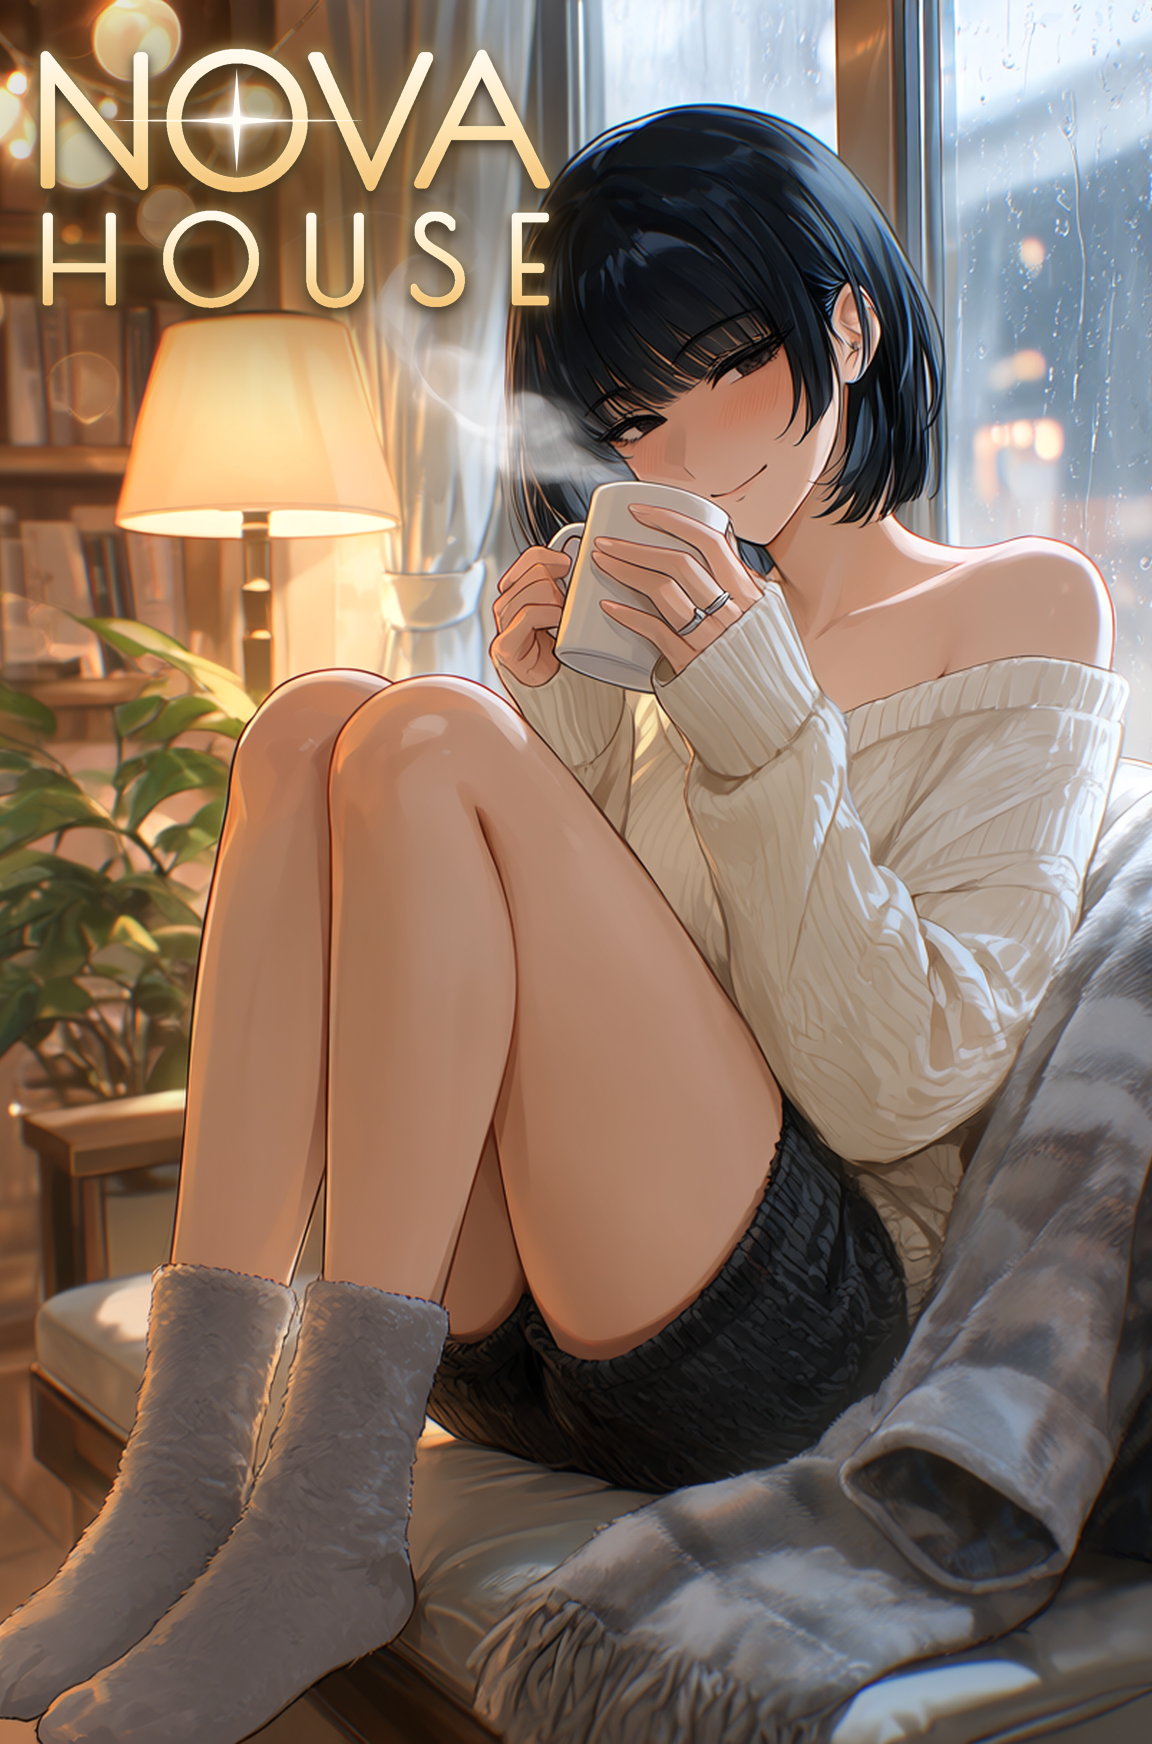
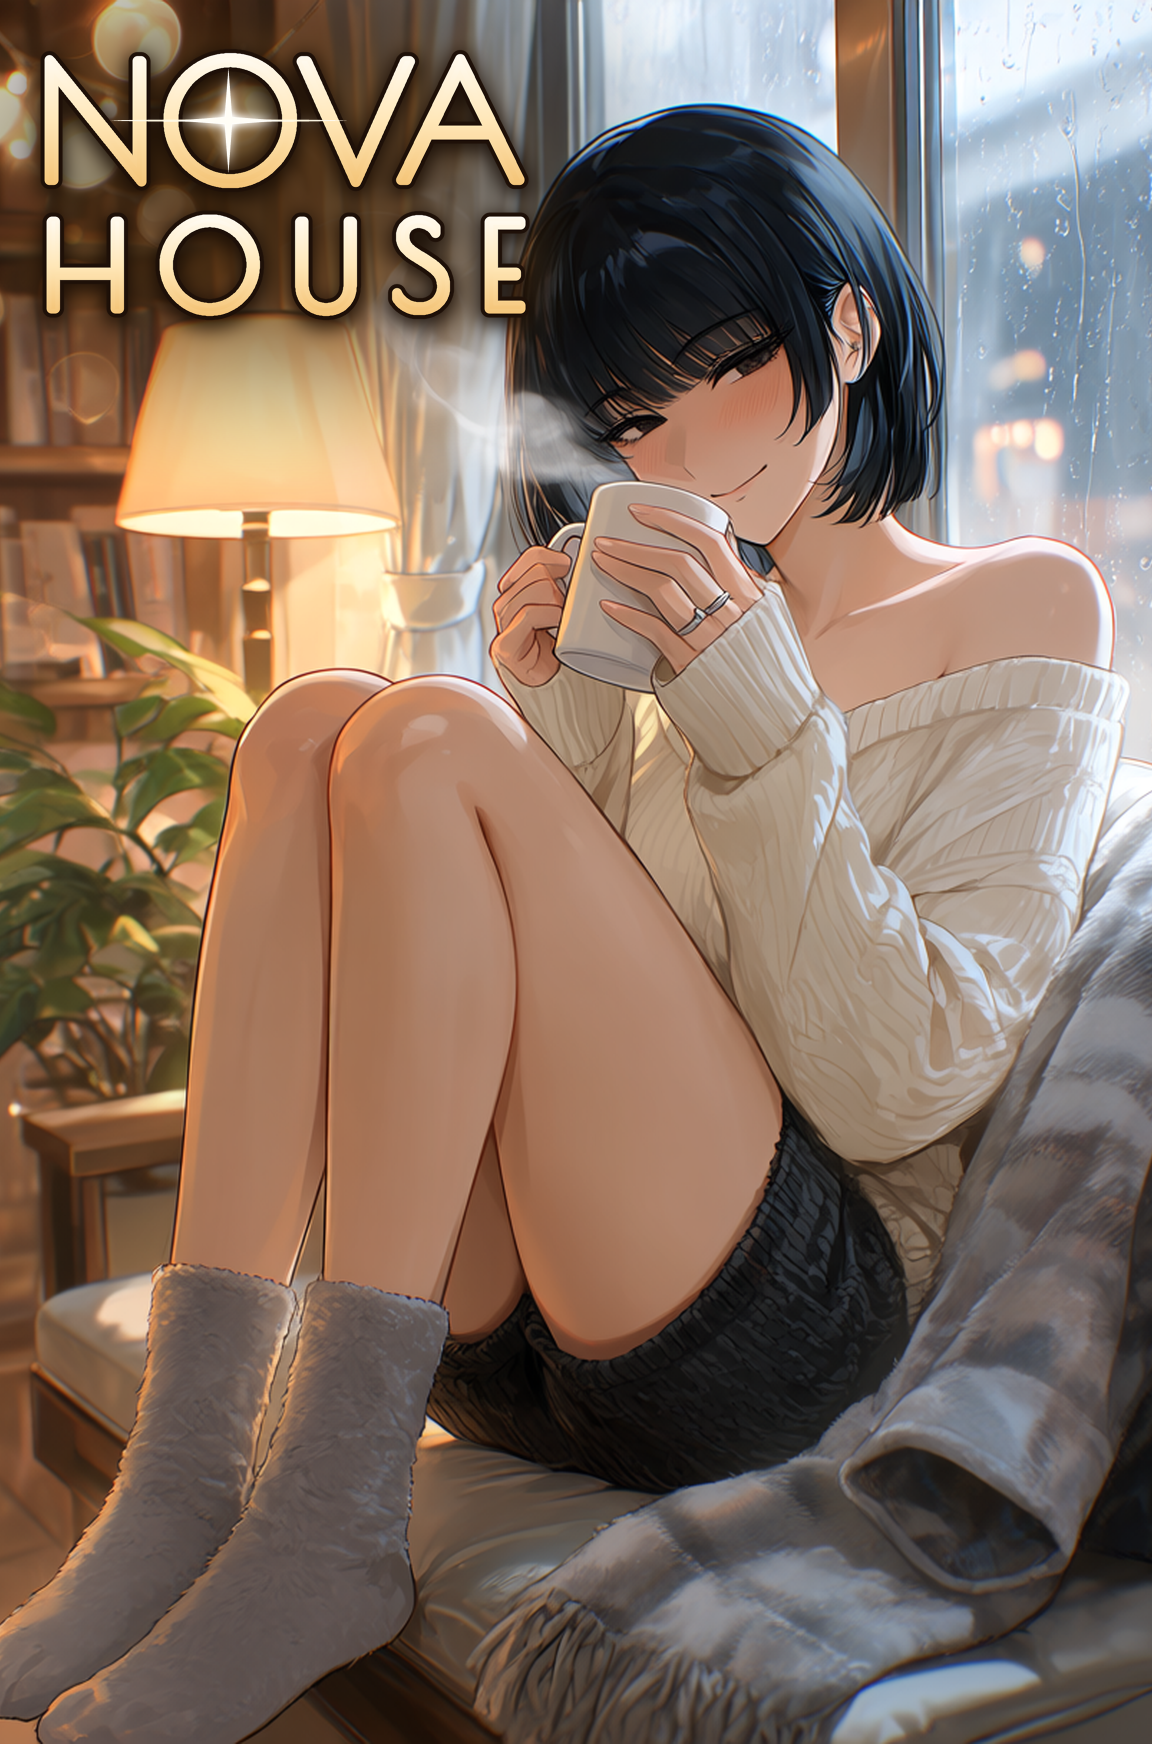
Cover titles v4: bigger small words and more contrast on four weak covers
Nova House: dark-brown keyline round the Poiret One letters, darker warm
spot, softer screen glow, HOUSE up to about 0.7x NOVA's cap. Thin Walls:
THIN at WALLS' 142 px cap in weight 400 with a dark keyline, hairline wall
moved back between the words. Zombie: who said in Caveat 118 (was 64) with
dark stroke, white outer line and pink drop shadow; THE 90 (was 70); Please
100. Three Skills: A MORNING 50 px (was 34), right-aligned to SKILLS, pixel
sun scaled to match. ALLOCATION zones and notes updated; checker passes.

Changed region(s): [[0.0, 0.0, 0.5312, 0.2477]]

diff --git a/docs/stories-50/cover-style-v3/titles/ALLOCATION.md b/docs/stories-50/cover-style-v3/titles/ALLOCATION.md
@@ -57,7 +57,7 @@ eyeballed, so keep a margin and run `--debug` on each render.
 | 14 | story_level_one_wyvern_slayer | Level One, Wyvern Slayer | thumbnail-pop | High-fantasy adventure comedy; underdog bravado | Cinzel Decorative | Exo 2 | BT | gold game logo + banner (sample) | .08-.92,.72-.97 | .35-.69,.06-.29 | Sample, kept as approved: gold bevelled game logo, hero "WYVERN SLAYER" in Cinzel Decorative, with a red "LEVEL ONE" banner in Exo 2. |
 | 15 | story_married_to_the_shrine_fox | Married to the Shrine Fox | gilded-over-the-shoulder | Yokai romcom; teasing, imperious, warm | Shojumaru | Cormorant | LR | vermilion lacquer + gold | .38-.96,.76-.96 | .45-.60,.06-.18 | Reworked from the sample so every line reads left to right, nothing turned on its side: "Married to the" in Cormorant italic 600 warm ivory, then hero "SHRINE FOX" in Shojumaru, torii-vermilion #d8432a lacquer fill with an ivory inline and a gold outer stroke, right-aligned over the floor and kimono hem, with small gold fox-fire sparkles. Vermilion and gold on emerald. |
 | 16 | story_noodles_or_blood | Noodles or Blood | hot-pink-poster | Martial-arts dorm comedy; scrappy, hungry | Potta One | Protest Revolution | DG | noren banner + drips | .10-.83,.68-.98 | .32-.58,.04-.22 | A ramen-shop noren tilted -6 deg across the black trousers: crimson cloth with soft fold shading and a woven brush texture, a darker top hem on a wooden rod, and two slits cut up from the hem so it hangs as three panels. Hero "NOODLES" in fat Potta One cream with a brown stroke, a small "or", and "BLOOD" in Protest Revolution dry brush, also cream with a near-black stroke so the two words balance, with glossy red drips running from its letters down the cloth. Crimson, cream and red on pink. |
-| 17 | story_nova_house | Nova House | cosy-lamp-bokeh | Mind-reading house mystery; cosy on top, menace underneath | Poiret One | none | UL | lamp glow | .03-.48,.02-.18 | .50-.74,.08-.27 | Corner logo in the dark bookcase corner above the lamp: hero "NOVA" in Poiret One across x .03-.47, thickened with a 5 px same-colour stroke, warm white-gold with a screen-blend lamp glow and a four-point nova sparkle on the O; "HOUSE" under it at about 0.6x NOVA's cap, tracked to the same width. A dark warm spot (#1a120a, 0.6) behind it keeps the hairline face off the bokeh. Amber and cream. |
+| 17 | story_nova_house | Nova House | cosy-lamp-bokeh | Mind-reading house mystery; cosy on top, menace underneath | Poiret One | none | UL | lamp glow | .03-.47,.02-.19 | .50-.74,.08-.27 | Corner logo in the dark bookcase corner above the lamp: hero "NOVA" in Poiret One across x .03-.47, thickened with a 5 px same-colour stroke and edged with a 4 px dark-brown keyline (#1e1008) so the hairline face holds against the bright window, warm white-gold with a soft screen-blend lamp glow and a four-point nova sparkle on the O; "HOUSE" under it at about 0.7x NOVA's cap with the same stroke and keyline, tracked to the same width. A dark warm spot (#140c05, 0.78) behind it keeps the letters off the bokeh. Amber and cream. |
 | 18 | story_one_miracle_a_day | One Miracle a Day | starlit-night | Minor-god tournament fantasy; hopeful, sweet | Pinyon Script | Marcellus | CG | holy gold glow + starburst | .10-.90,.63-.85 | .43-.53,.11-.18 | Centred in the galaxy gap under the floating goddess: "ONE" and "A DAY" in tracked Marcellus silver; hero "Miracle" in Pinyon Script with gold metal fill, a 3 px white inner stroke to hold the hairlines and a soft gold halo, a starburst sparkle on the i. Gold on cobalt cosmos. |
 | 19 | story_one_week_she_said | One Week, She Said | cosy-lamp-bokeh | Second-chance romance, slice of life; rainy, tender | Nanum Pen Script | none | LR | sticky note | .50-.96,.74-.96 | .40-.62,.05-.29 | A pale-yellow sticky note with a curled corner and soft shadow, tilted +4 deg over the couch and socks: hero "One week," big and "she said." smaller in Nanum Pen Script blue-ballpoint ink, with seven tally marks and the last one circled. Pastel note on cream sweater and rain-grey. |
 | 20 | story_one_year_bride | One-Year Bride | gilded-over-the-shoulder | Contract-marriage romcom; poised, rule-bound | Alex Brush | Italiana | LL | contract signature + wax seal | .04-.90,.70-.91 | .50-.68,.05-.22 | No card: the contract, signed. Over a dark warm spot on the gold floor at lower left, rising -4 deg: "ONE-YEAR" typed in tracked Italiana ivory, then a dotted "x ...." signature line running 86% of the cover wide, with hero "Bride" signed across it in huge gold Alex Brush (690 px wide, dark keyline, warm glow) and a gold curled flourish under it, ending in a red wax seal with a B. Gold and ivory over the emerald dress. |
@@ -83,11 +83,11 @@ eyeballed, so keep a margin and run `--debug` on each render.
 | 40 | story_the_ranking_board | The Ranking Board | thumbnail-pop | Fighting-college action; bruising, competitive | Barlow Condensed | none | LL | smoked-glass leaderboard | .02-.55,.62-.98 | .42-.65,.05-.24 | The glass ranking wall in the yellow burst under her fist, lower left: a smoked-glass panel with a white top rule, "THE" in red, hero "RANKING" and "BOARD" in Barlow Condensed italic 800 white (cap about 95 px), and three leaderboard rows (86, 87, 88) with 87 on a red bar. Smoked black glass and red on yellow. |
 | 41 | story_the_villain_dies_in_chapter_three | The Villain Dies in Chapter Three | holy-high-key | Transmigration academy comedy; doomed, smug | UnifrakturMaguntia | Shippori Mincho B1 | DG | book page + ribbon bookmark | .25-.97,.77-.98 | .42-.64,.08-.28 | A web-novel page: a cream book page with a deckled edge tilted -6 deg over the white gown below her gloved hand, hero "The Villain" in UnifrakturMaguntia black (176 px), "dies in" in Shippori Mincho B1 600 at 64 px between two thin rules, "CHAPTER THREE" in Shippori caps on a red ribbon bookmark, and one red drop. Black and red on cream and white. |
 | 42 | story_the_wolf_clan_s_guest | The Wolf Clan’s Guest | cosy-lamp-bokeh | Beastfolk reverse-harem romance; winter camp, warm | Grenze Gotisch | none | BT | stitched leather banner | .06-.94,.76-.96 | .46-.64,.11-.25 | A stitched brown leather banner (ribbon shape, stitched edge) over the fur and boots: "THE WOLF CLAN'S" small and hero "GUEST" in Grenze Gotisch 800 bone-white from the fur with a dark keyline, a wolf-paw print at one end and a light frost sparkle. Bone and leather in lantern light. |
-| 43 | story_the_zombie_who_said_please | The Zombie Who Said Please | hot-pink-poster | Zombie survival comedy; polite undead | Creepster | Caveat | LR | slime drips + speech bubble | .40-.96,.78-.97 | .36-.62,.07-.29 | "THE" small over hero "ZOMBIE" in Creepster slime green #8bd649 from the jacket with a dark stroke and drips, "who said" small, and a pink speech bubble saying "Please" in Caveat bold black, right-aligned over the black trousers and green jacket. Slime green and pink. |
-| 44 | story_thin_walls | Thin Walls | melodrama-red-accent | Neighbour-rival romcom; sniping, close | Big Shoulders Display | none | LL | weight split + hairline wall | .03-.61,.86-.97 | .36-.60,.05-.21; .52-.70,.18-.31 | The pun in weights, one line under the rose, over the dark suit: "THIN" in Big Shoulders Display 300 ice-white at a 90 px cap (0.63 of WALLS), a single glowing hairline standing between the words like the wall, then hero "WALLS" in Big Shoulders Display 900 at a 142 px cap, white-to-ice fill with a red keyline and a dark outer line so it never melts into the red dress. Ice white and red on blue-black. |
+| 43 | story_the_zombie_who_said_please | The Zombie Who Said Please | hot-pink-poster | Zombie survival comedy; polite undead | Creepster | Caveat | LR | slime drips + speech bubble | .40-.96,.73-.97 | .36-.62,.07-.29 | "THE" over hero "ZOMBIE" (about 0.48 of its cap) in Creepster slime green #8bd649 from the jacket with a dark stroke and drips, "who said" in Caveat bold (ascenders about 0.53 of ZOMBIE's cap) white with a dark stroke, a white outer line and ZOMBIE's pink drop shadow so it holds on the black trousers, and a pink speech bubble saying "Please" in Caveat bold black, right-aligned over the black trousers and green jacket. Slime green and pink. |
+| 44 | story_thin_walls | Thin Walls | melodrama-red-accent | Neighbour-rival romcom; sniping, close | Big Shoulders Display | none | LL | weight split + hairline wall | .03-.69,.86-.97 | .36-.60,.05-.21; .52-.70,.18-.31 | The pun in weights, one line under the rose, over the dark suit: "THIN" in Big Shoulders Display 400 ice-white at the same 142 px cap as WALLS (the pun is in the weight, not the size) with a 3 px dark keyline, a single glowing hairline standing between the words like the wall, then hero "WALLS" in Big Shoulders Display 900 at a 142 px cap, white-to-ice fill with a red keyline and a dark outer line so it never melts into the red dress. Ice white and red on blue-black. |
 | 45 | story_thirty_days_with_the_number_one_hero | Thirty Days With the Number One Hero | sunlit-webtoon-duo | Superhero fake-dating romcom; sunny, showy | Bangers | Alfa Slab One | TB | comic halftone + calendar strip | .06-.94,.03-.21 | .04-.22,.37-.50; .26-.45,.24-.40 | In the big sky: "THIRTY DAYS WITH THE" in Alfa Slab One red on a white tear-off calendar strip, then hero "NUMBER ONE HERO" in Bangers yellow #ffd23f with a navy stroke and halftone shadow, and a star badge "No.1". Comic yellow, navy and red on blue sky. |
 | 46 | story_three_feet_apart | Three Feet Apart | hot-pink-poster | Enemies-to-lovers court-mage comedy; bickering | Rampart One | none | WR | 3D outline + magic tether | .03-.36,.78-.96; .66-.97,.78-.96 | .32-.63,.04-.24 | The words are literally apart, either side of his pointing hand: "THREE" / "FEET" on the left and hero "APART" larger on the right, in Rampart One (built-in 3D outline) white with a black stroke, joined across the hand by a glowing green magic tether drawn as a measuring tape. White, black and spell-green on grey and pink. |
 | 47 | story_three_heroines_and_a_porter | Three Heroines and a Porter | sunlit-webtoon-duo | Harem isekai ensemble comedy; bright, chaotic | Kaushan Script | Gochi Hand | BT | brush script + luggage tag | .04-.96,.78-.97 | .16-.40,.11-.26; .50-.70,.13-.26 | Hero "Three Heroines" in Kaushan Script, white fill with a red double stroke and a navy outer stroke, over the meadow and legs; "and a Porter" handwritten in Gochi Hand on a kraft luggage tag hanging from the last letter on a string. White, red and kraft on green and sky blue. |
-| 48 | story_three_skills_a_morning | Three Skills a Morning | ink-and-one-red | Skill-draw isekai mystery; noon deadline | Press Start 2P | none | LR | pixel skill cards | .46-.97,.70-.97 | .27-.48,.17-.35 | Three skill cards fanned over the dark coat at lower right (white cards, black pixel frames, the middle one red), as if just drawn: hero "THREE SKILLS" in Press Start 2P black with a white outline across the fan and "A MORNING" smaller under it with a tiny pixel sun. Black, white and one red over ink line art; the red knife on the left stays clear. |
+| 48 | story_three_skills_a_morning | Three Skills a Morning | ink-and-one-red | Skill-draw isekai mystery; noon deadline | Press Start 2P | none | LR | pixel skill cards | .46-.97,.70-.97 | .27-.48,.17-.35 | Three skill cards fanned over the dark coat at lower right (white cards, black pixel frames, the middle one red), as if just drawn: hero "THREE SKILLS" in Press Start 2P black with a white outline across the fan and "A MORNING" under it at 50 px (0.64 of the hero), right-aligned to SKILLS, with a pixel sun to its left. Black, white and one red over ink line art; the red knife on the left stays clear. |
 | 49 | story_ironclad_cadets | Unit Nine | thumbnail-pop | Mecha military school action; scrappy pilot | Saira Stencil One | none | LL | spray stencil on steel | .02-.98,.79-.99; .70-.96,.74-.84 | .32-.54,.11-.29 | Hangar stencil, no hazard stripes: a riveted grey armour band across the bottom (chamfered corners, brushed steel, bevel, 14 rivets) with hero "NINE" sprayed in Saira Stencil One white at 75% of the cover wide (chipped spray, overspray), a raised tab at its left end carrying "UNIT", and a large unit number "09" sprayed straight onto the art above the right end in mecha orange. Steel grey, white and orange under the blue mech. |
 | 50 | story_villain_track | Villain Track | system-window | Villain-academy heist; slick, mischievous | Audiowide | none | UL | gradient + racing stripes | .03-.74,.03-.24 | .40-.60,.27-.43 | One block at top left above her head: hero "VILLAIN" in Audiowide (720 px wide, +8 deg slant) with a violet-to-magenta gradient, a thin white inline, dark and pink keylines and a magenta glow; "TRACK" right under it at 0.87 of its cap, right-aligned, with three magenta racing stripes running in from the left to it, and a domino-mask ornament over the N. Violet and magenta against acid green. |
